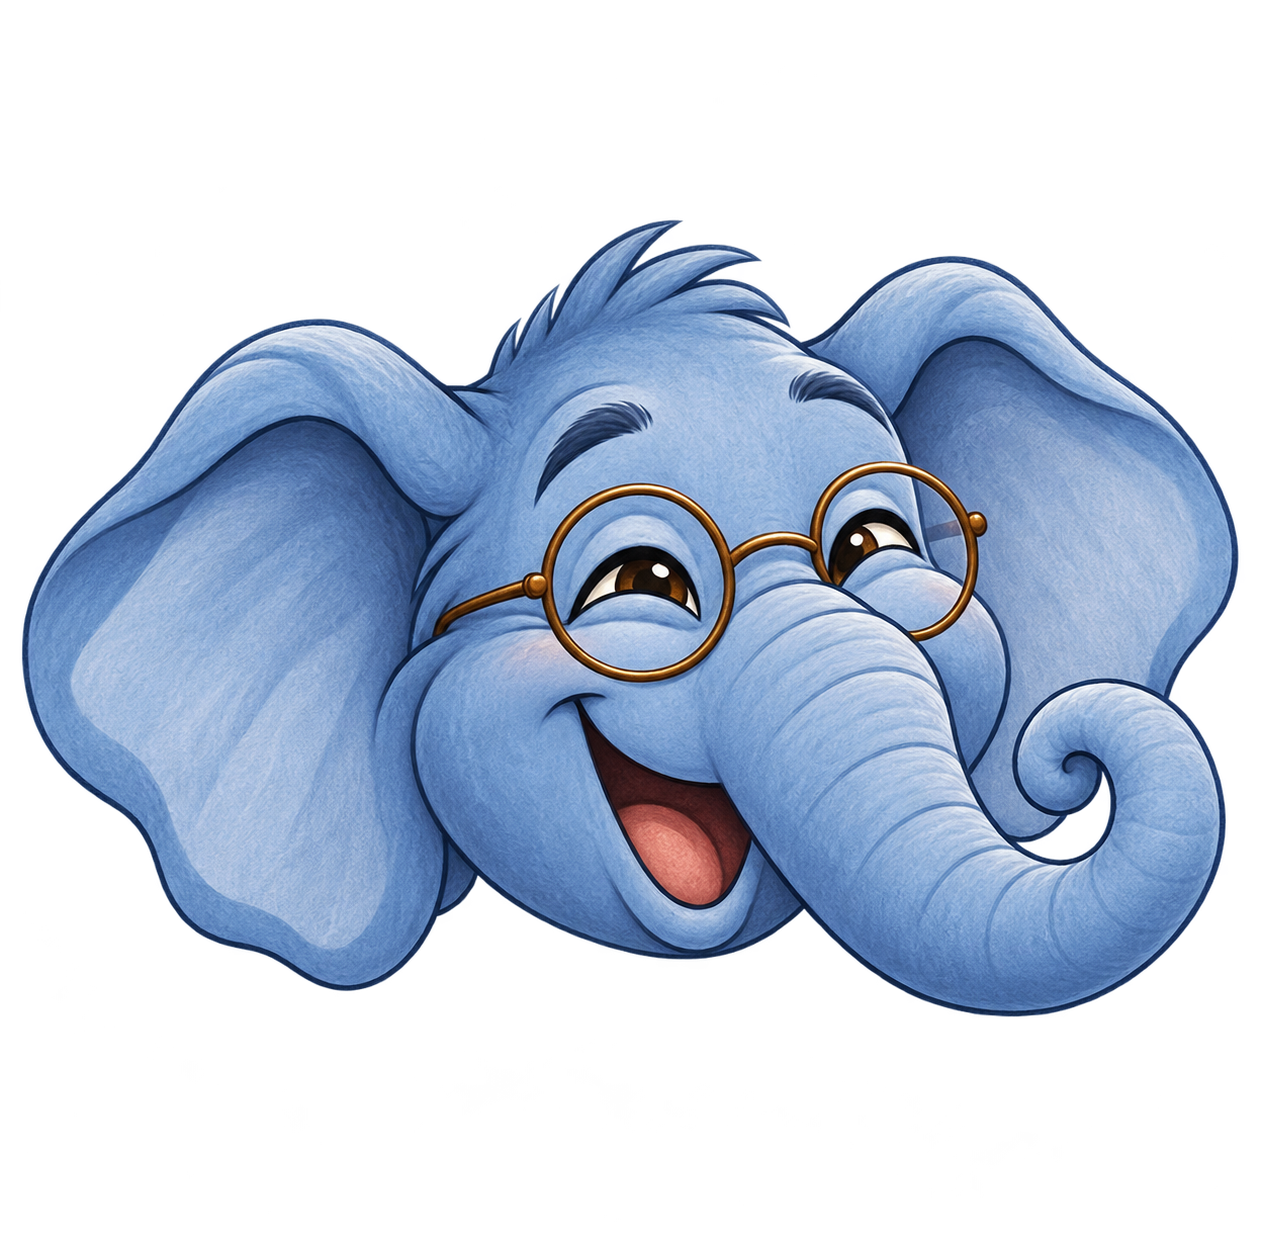
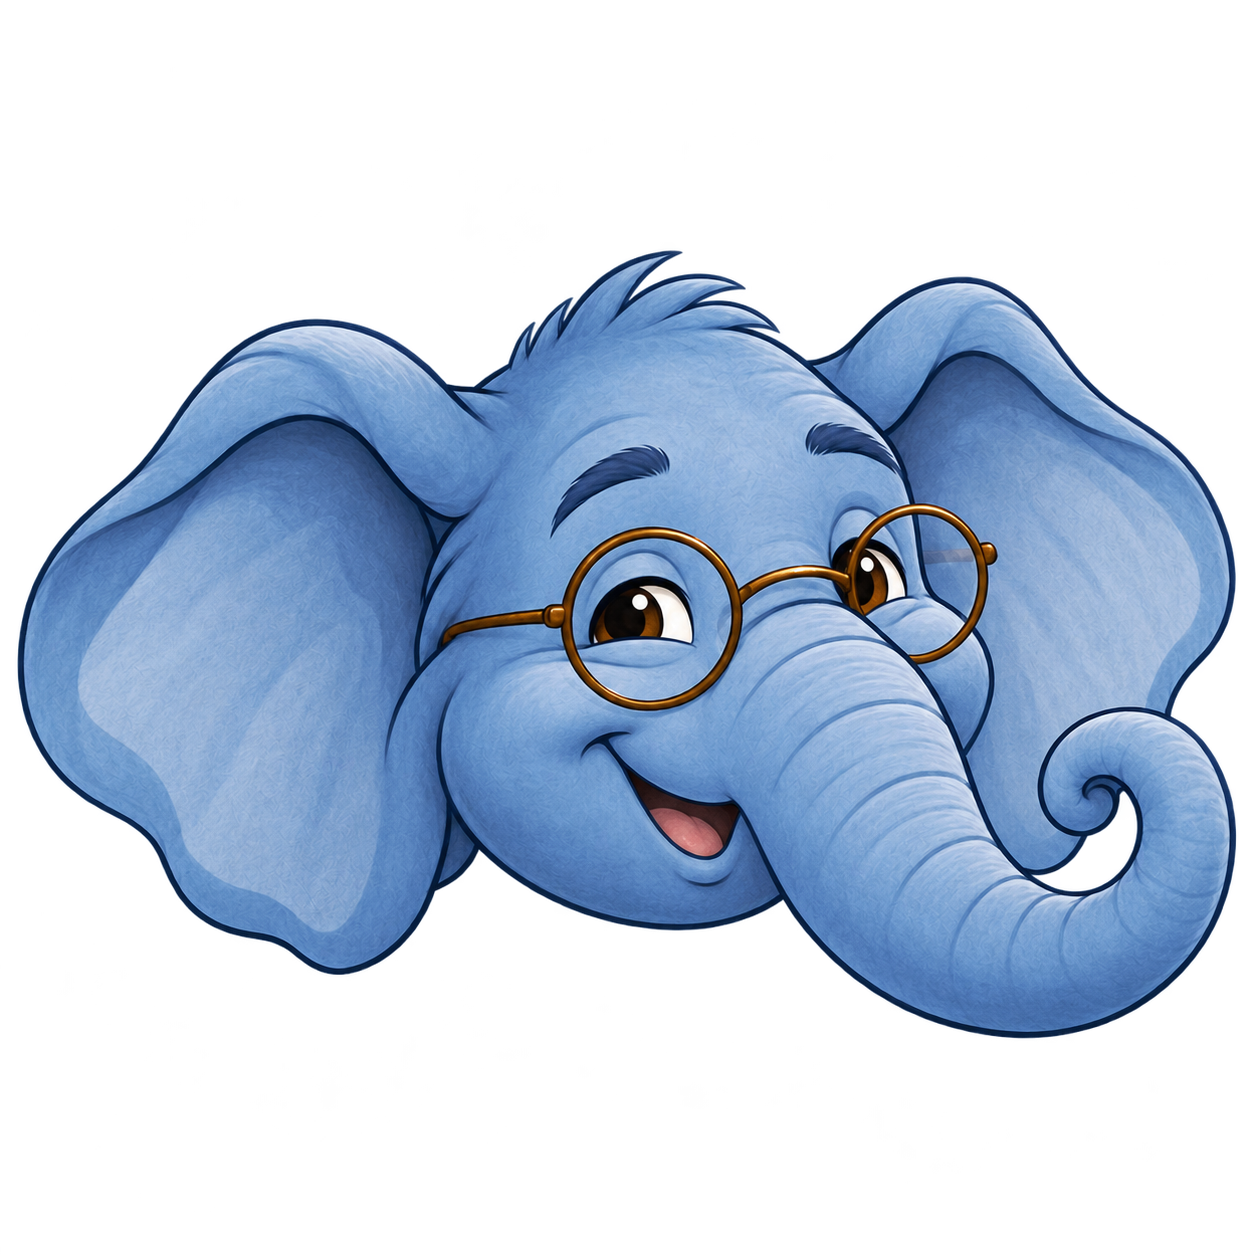
Giv Raymond et mere naturligt grin

diff --git a/web/Characters/CharacterCatalog.cs b/web/Characters/CharacterCatalog.cs
@@ -63,7 +63,7 @@ public static class CharacterCatalog
                 new("Tænkepause", "/images/characters/raymond/reactions/thinking.png", "Raymond kigger eftertænksomt opad, mens han overvejer løsningen.", 1254, 1254),
                 new("Pas på", "/images/characters/raymond/reactions/warning.png", "Raymond hæver brynene i mild overraskelse og beder dig kontrollere en ekstra gang.", 1254, 1254),
                 new("Flot klaret", "/images/characters/raymond/reactions/celebration.png", "Raymond stråler af begejstring over en opgave, der er løst.", 1254, 1254),
-                new("Griner", "/images/characters/raymond/reactions/laughing.png", "Raymond bryder ud i varm latter med glade øjne og en legende snabel.", 1262, 1246),
+                new("Griner", "/images/characters/raymond/reactions/laughing.png?v=097b5eeb", "Raymond griner varmt med et naturligt smil, bløde øjne og en afslappet snabel.", 1254, 1254),
                 new("Aha!", "/images/characters/raymond/reactions/eureka.png", "Raymond får en idé med løftet finger og en lille gylden pære.", 1254, 1254),
                 new("Åh nej", "/images/characters/raymond/reactions/facepalm.png", "Raymond lægger en hånd ved panden i en tålmodig og humoristisk facepalm.", 1254, 1254),
                 new("Kaffepause", "/images/characters/raymond/reactions/coffee.png", "Raymond holder en dampende mørkeblå kaffekop med et afslappet smil.", 1254, 1254),

diff --git a/tests/Mercantec.Tech.Web.Tests/CharacterDetailTests.cs b/tests/Mercantec.Tech.Web.Tests/CharacterDetailTests.cs
@@ -38,14 +38,15 @@ public sealed class CharacterDetailTests
             var preview = figure.QuerySelector(".character-artwork-preview")!;
             var download = figure.QuerySelector(".character-artwork-download")!;
             var source = image.GetAttribute("src")!;
+            var filePath = source.Split('?')[0];
             Assert.StartsWith("/images/characters/raymond/", source);
-            Assert.EndsWith(".png", source);
+            Assert.EndsWith(".png", filePath);
             Assert.False(string.IsNullOrWhiteSpace(image.GetAttribute("alt")));
             Assert.Equal(source, preview.GetAttribute("href"));
             Assert.Equal("_blank", preview.GetAttribute("target"));
             Assert.Contains("noopener", preview.GetAttribute("rel"));
             Assert.Equal(source, download.GetAttribute("href"));
-            Assert.Equal($"raymond-{Path.GetFileName(source)}", download.GetAttribute("download"));
+            Assert.Equal($"raymond-{Path.GetFileName(filePath)}", download.GetAttribute("download"));
         });
         Assert.EndsWith("/fancy.webp", page.Find(".character-main-art img").GetAttribute("src"));
         Assert.Equal(4, page.FindAll(".character-appearance-picker button").Count);

diff --git a/web/wwwroot/images/characters/raymond/reactions/prompts-a.md b/web/wwwroot/images/characters/raymond/reactions/prompts-a.md
@@ -1,6 +1,6 @@
 # Raymond: nye reaktioner A
 
-Genereret 2026-11-07 med indbygget `image_gen.imagegen`, identitetsbevarende redigering med `referenced_image_paths`, `transparent_background: true`. Én separat generation pr. fil, ingen retries. Originale PNG'er er kopieret uændret; ingen billedredigering eller optimering.
+Genereret 2026-11-07 med indbygget `image_gen.imagegen`, identitetsbevarende redigering med `referenced_image_paths`, `transparent_background: true`. Originale PNG'er er kopieret uændret; ingen billedredigering eller optimering. Griner er efter brugerens ønske erstattet af en mere naturlig grinereaktion samme dag; de øvrige billeder er uændrede.
 
 ## Kilder og invariants
 
@@ -16,16 +16,19 @@ Alle genererede billeder blev vist og inspiceret. Pillow blev kun brugt læsende
 ## Griner — `laughing.png`
 
 - Projektfil: `web/wwwroot/images/characters/raymond/reactions/laughing.png`
-- Original: `C:\Users\Private\.codex\generated_images\01a1b791-7c21-7d32-bfef-b46886fdc216\exec-a591e10a-458d-453a-ad1f-40d58887e6e2.png`
-- Dimensioner: 1262 × 1246 px, RGBA, alpha 0–255.
-- Fuldt transparente pixels: 846702; delvist transparente: 724967.
-- Betydende motivgrænse (alpha ≥ 16, venstre/øverst/højre/nederst): `(21, 219, 1239, 1017)`.
-- Visuel kontrol: Tydelig varm latter, brune iris synlige, original snabelkrølle og bronze-briller bevaret. Hele hovedmotivet er inden for rammen. Generatorens originale lærred afviger 1,3 % fra kvadrat; PNG'en er bevaret uændret.
+- Original: `C:\Users\Private\.codex\generated_images\01a1b6d3-b5ad-7d81-bfea-fe5c470dcf17\exec-717eabb7-b2b3-4beb-97a6-7a5cc3707829.png`
+- Eneste billedreference i denne revision: `SQL-H1/assets/mascot/professor-pack/head-neutral.png`.
+- Dimensioner: 1254 × 1254 px, RGBA, alpha 0–255.
+- Fuldt transparente pixels: 866299; delvist transparente: 705247.
+- Betydende motivgrænse (alpha ≥ 16, venstre/øverst/højre/nederst): `(17, 250, 1237, 1039)`.
[1 lines of base64/hex data omitted]
+- Visuel kontrol: Mere naturligt, lille åbent grin med bløde brune øjne, afslappet snabel og bevarede proportioner. Ører, briller, hårtot og snabel ligger helt inde i rammen. Ingen efterredigering.
+- Den fysiske sti er uændret. Galleriet bruger `?v=097b5eeb`, så en tidligere cachet udgave ikke genbruges.
 
 Præcis prompt:
 
 ```text
-Use the first attached image as the edit target for Raymond's identity and exact head design, and the second as supporting reference for his original warm hand-painted storybook editorial illustration style. Create one polished detailed reaction emoji illustration of the SAME Raymond, the blue elephant professor. Preserve his characteristic soft medium blue skin, large expressive warm brown eyes, round thin bronze glasses, little swept blue hair tuft, wide friendly ears, curled upward trunk, dark blue fine outlines, and painterly pencil/gouache texture. Do not redesign or make photorealistic, plastic 3D, vector, or anime. Composition: square 1:1 transparent PNG, a large expressive floating head with minimal bust only if useful, no body cropped at the canvas boundary. Keep the complete ears, glasses, hair tuft and curled trunk within frame with a clear transparent margin on every side. The visual should stay legible as a large reaction emoji while retaining rich painted detail. Reaction: contagious warm laughter. Raymond is laughing happily with smiling crescent eyes, visible warm brown irises peeking through, raised cheeks, an open cheerful smile, and his recognizable curled trunk bouncing slightly playfully. Friendly educator laughing with a learner, never mocking. No hands or props are needed. Genuinely transparent background with clean soft antialiased silhouette. No background color or scene, no panel, badge, frame, readable text, letters, logos, watermark, or other figures. Produce exactly ONE standalone reaction, not a sheet or collage.
+Use case: identity-preserve. Asset type: one detailed transparent reaction emoji for Raymond's character profile. Input image 1 is the edit target and canonical design of Raymond. Change ONLY his facial expression into a natural warm chuckle. Keep the exact same friendly blue elephant head, painterly pencil and gouache texture, round thin bronze spectacles, brown eyes, swept blue hair tuft, wide ears, and original relaxed upward-curled trunk. His head stays upright and calm in the same three-quarter view. Give him softly raised cheeks and a modest open smiling mouth suggesting a small happy laugh, with a natural simple mouth shape; both brown eyes look gently towards the viewer, relaxed and lively, not squashed into crescents, not staring upward, not cross-eyed. Make the joy come from the smile and cheeks, without stretching his face. Keep the trunk in its original relaxed position and proportion; do not bounce, enlarge or twist it. The user disliked the previous overly exaggerated laughing expression, so this should feel familiar, endearing and anatomically coherent within the original cartoon design. One floating head only, no hands, body or props. Square composition with the complete ears, hair and trunk inside the canvas and transparent breathing room on all sides. Genuinely transparent background. No text, logo, border, watermark, graphic symbols, extra figures, scene, or background color. Produce exactly one polished standalone PNG, not a sheet.
 ```
 
 ## Aha! — `eureka.png`
